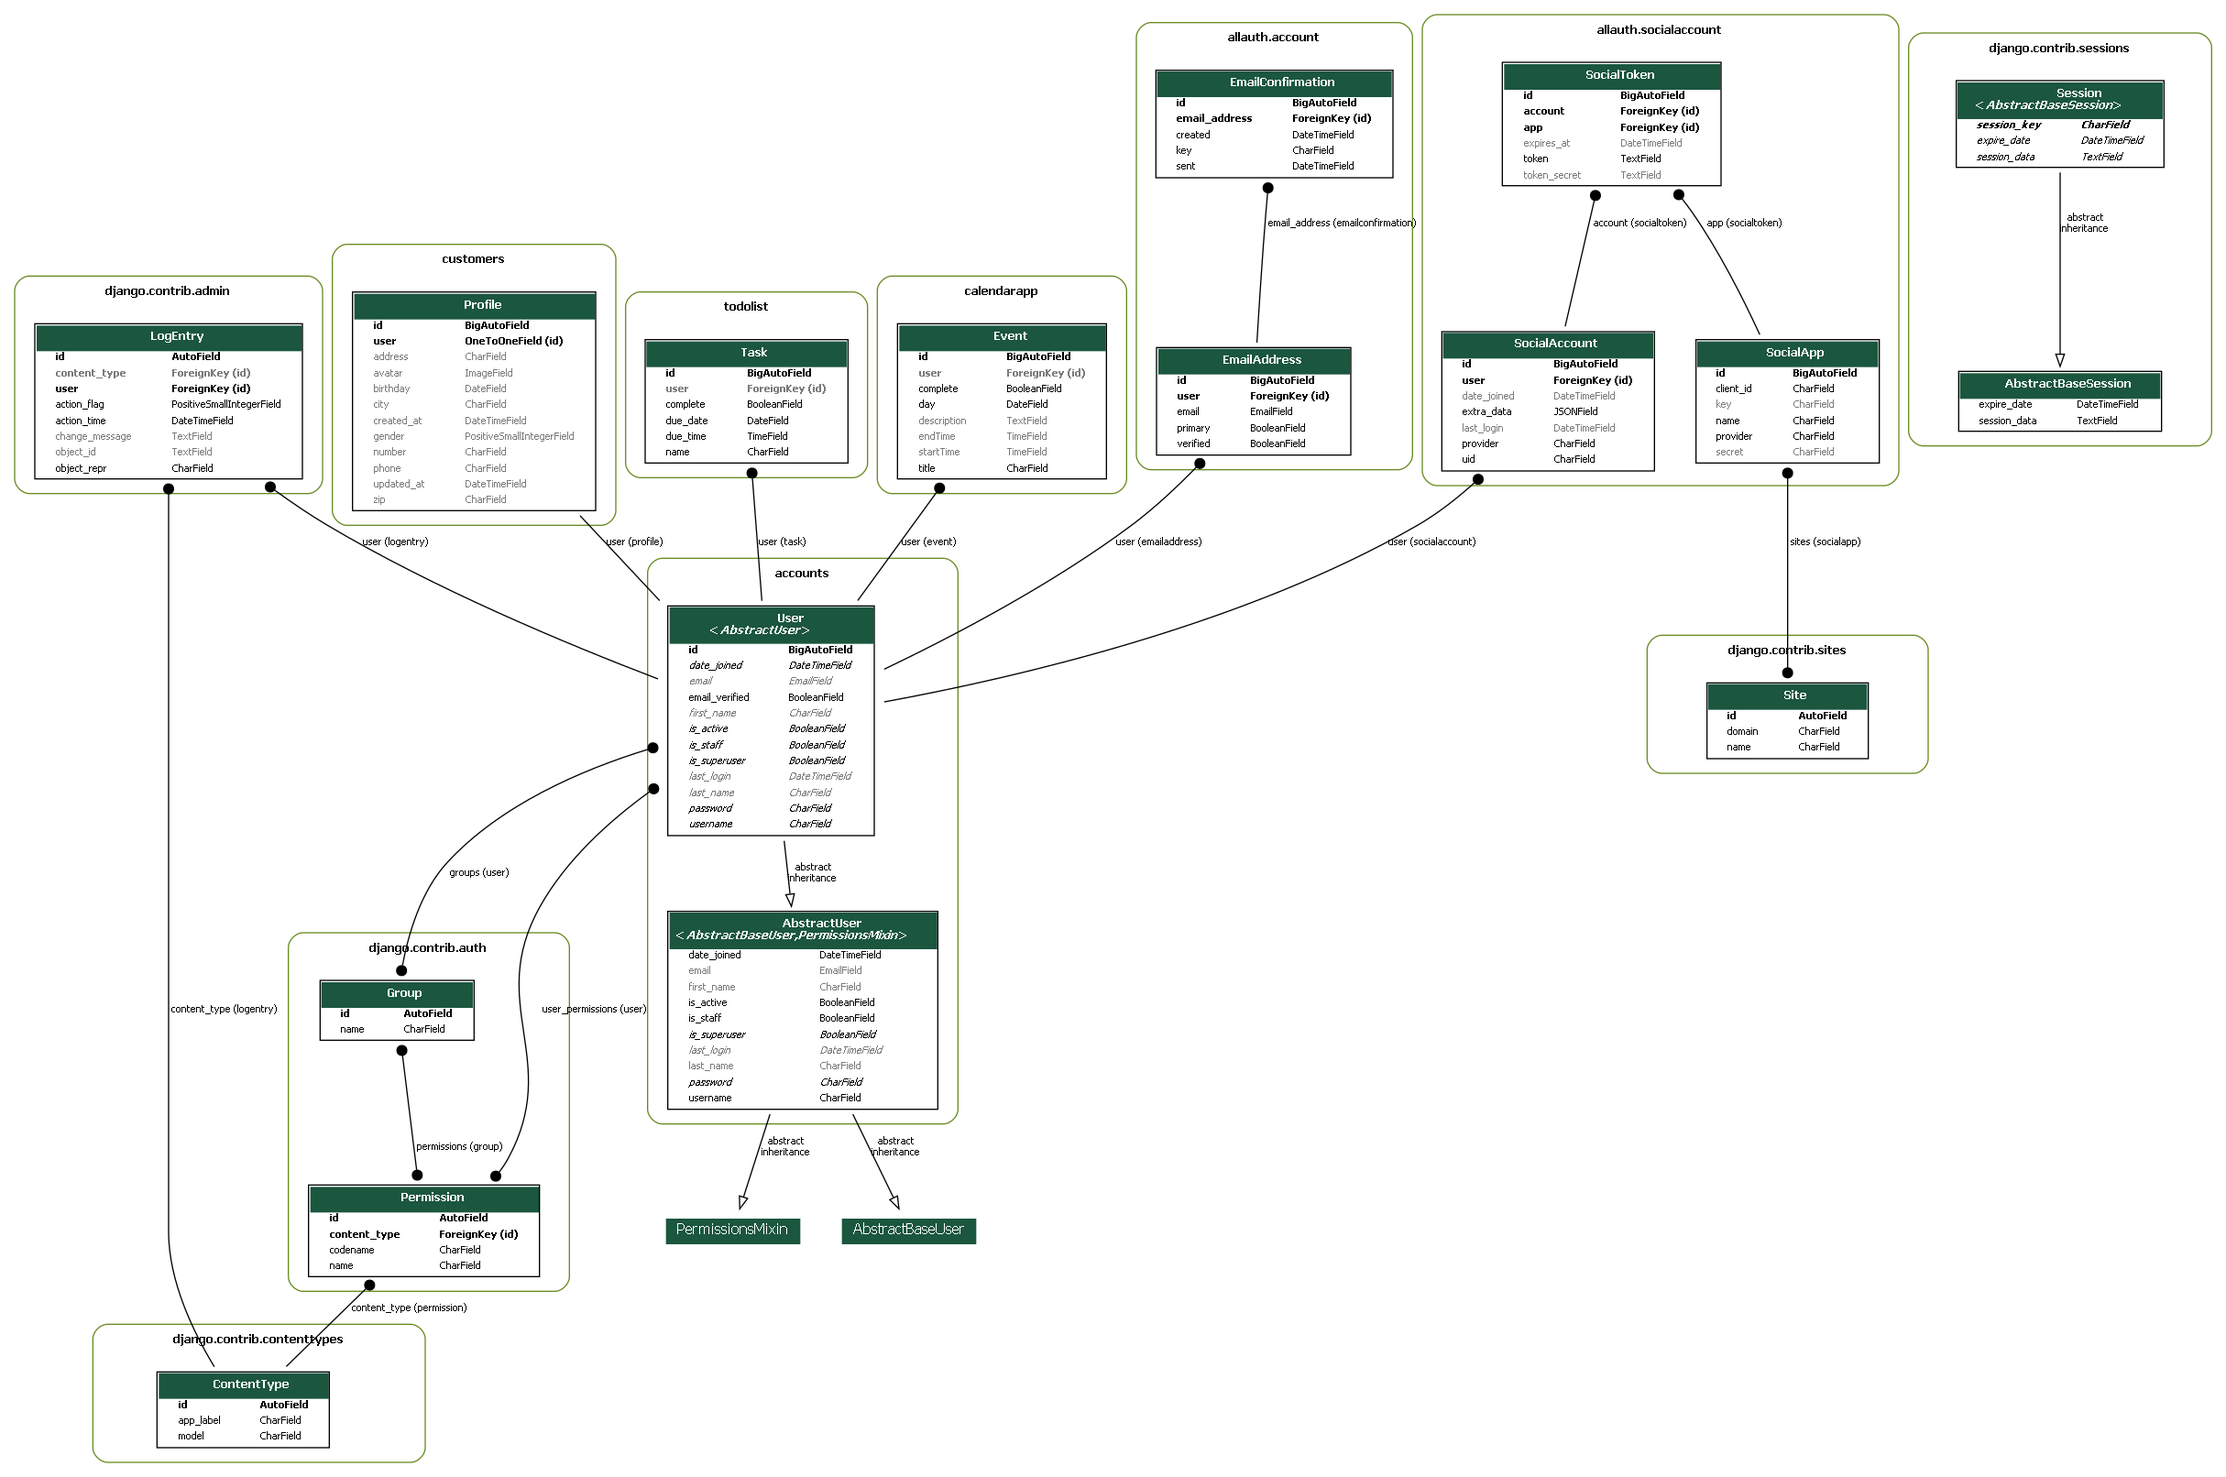
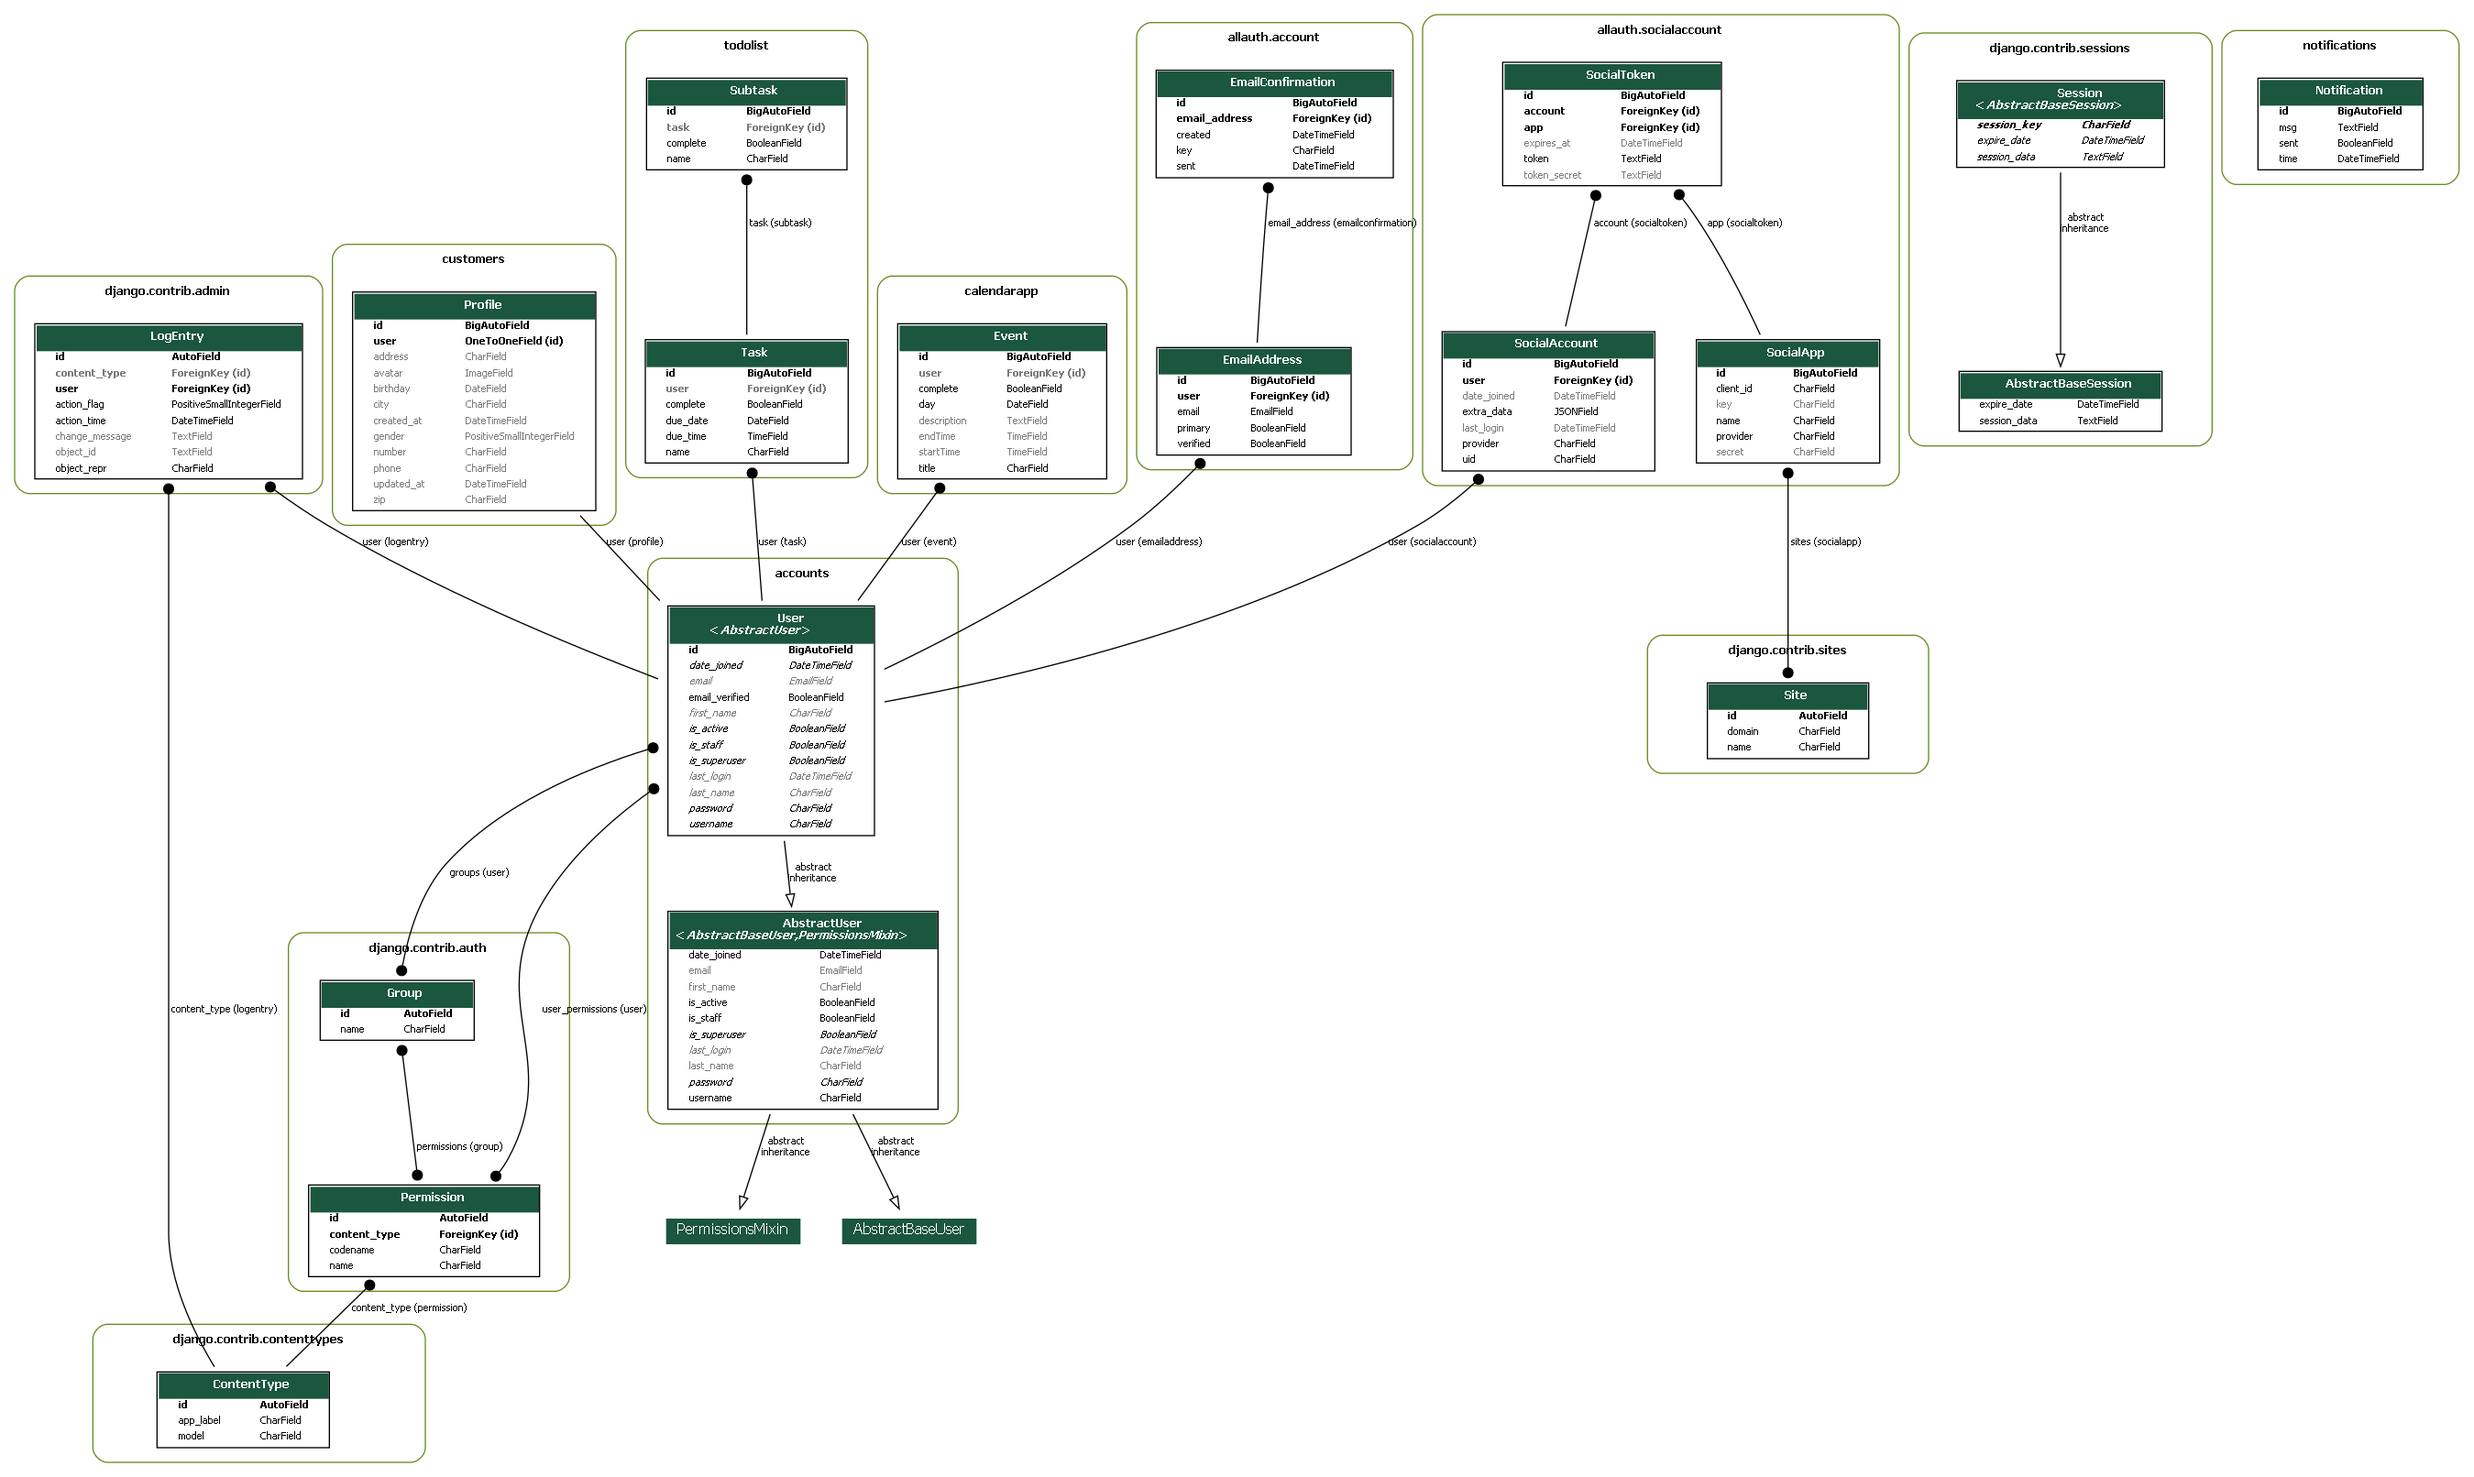
Subtask bug fix - Daily Schedule
Fixed a bug where subtask JS were not working. Added new class diagrams.

diff --git a/AppCode/dailyschedule/templates/dailyschedule/subtasks.html b/AppCode/dailyschedule/templates/dailyschedule/subtasks.html
@@ -1,72 +1,76 @@
 <div class="table-responsive p-0">
-    <table class="table align-items-center mb-0">
-      <tbody>
-        {% if subtasks|length %}
+  <table id="subtasks-list" class="table align-items-center mb-0">
+    <tbody id="subtasks-list-body">
+      {% if subtasks|length %}
         {% for subtask in subtasks %}
-        <tr>
-          <td style="text-align: right; width: 100px;">
-                {% if subtask.complete %}
-                     <input class="subtask-checkbox" type="checkbox" name="checkbox" data-id="{{subtask.id}}" checked>
-                     {% else %}
-                    <input class="subtask-checkbox" type="checkbox" name="checkbox" data-id="{{subtask.id}}">
-                    {% endif %}                       
-            </div>
-            </a>
-          </td>
-          <td>
+          <tr>
+            <td style="text-align: right; width: 100px;">
+              {% if subtask.complete %}
+                <input class="subtask-checkbox" type="checkbox" name="checkbox" data-id="{{subtask.id}}" checked>
+              {% else %}
+                <input class="subtask-checkbox" type="checkbox" name="checkbox" data-id="{{subtask.id}}">
+              {% endif %}                       
+            </td>
+            <td>
               <p id="task-due-date" class="text-xs font-weight-bold mb-0">{{subtask.name}}</p> 
-          </td>    
-          <td class="float: right;" id = "">
-            <i style="cursor:pointer;" class="delete-subtask fa fa-close text-secondary" data-id="{{subtask.id}}"></i>
-          </td>
-        </tr>
-      {% endfor %}
+            </td>    
+            <td class="float: right;" id = "">
+              <i style="cursor:pointer;" class="delete-subtask fa fa-close text-secondary" data-id="{{subtask.id}}" onclick=deleteRow(this)></i>
+            </td>
+          </tr>
+          <b id="no-subtasks" style='padding-left: 20px' hidden>No current subtasks!</b>
+        {% endfor %}
       {% else %}
-      <b style='padding-left: 20px'>No current subtasks!</b>
+        <b style='padding-left: 20px'>No current subtasks!</b>
       {% endif %}
-    </table>
-  </div>
-  {% block javascripts %}
+    </tbody>
+  </table>
+</div>
 
-  <script>
-    $(".subtask-checkbox").click(function(e) {
-      var subtaskId = $(this).attr('data-id');
-      var editSubtaskURL = window.location.origin + "/dailyschedule/subtask-edit/" + subtaskId + "/";
-    
-      $.ajaxSetup({
-        headers: { "X-CSRFToken": '{{csrf_token}}' }
-      });
+<script>
+  function deleteRow(row) {
+    document.getElementById("subtasks-list").deleteRow(row.parentNode.parentNode.rowIndex);
+    if(document.getElementById("subtasks-list").rows.length == 0)
+      document.getElementById("no-subtasks").removeAttribute("hidden");
+  }
 
-      $.ajax({
-        type: "POST",
-        url: editSubtaskURL,
-        success: function(data) {
-          console.log("Submission successful.");
-        },
-        error: function(data) {
-          console.log("An error occurred.");
-        },
-      });
+  $(".subtask-checkbox").click(function(e) {
+    var subtaskId = $(this).attr('data-id');
+    var editSubtaskURL = window.location.origin + "/dailyschedule/subtask-edit/" + subtaskId + "/";
+  
+    $.ajaxSetup({
+      headers: { "X-CSRFToken": '{{csrf_token}}' }
     });
 
-    $(".delete-subtask").click(function(e) {
-      var deleteId = $(this).attr('data-id');
-      var deleteSubtaskURL = window.location.origin + "/dailyschedule/subtask-delete/" + deleteId + "/";
-      console.log(deleteSubtaskURL);
-      $.ajax({
-        type: "POST",
-        url: deleteSubtaskURL,
-        beforeSend: function(xhr) {
-          xhr.setRequestHeader("X-CSRFToken", getCookie("csrftoken"));
-        },
-        success: function(data) {
-          console.log("Submission successful.");
-        },
-        error: function(data) {
-          console.log("An error occurred.");
-        },
-      });
+    $.ajax({
+      type: "POST",
+      url: editSubtaskURL,
+      success: function(data) {
+        console.log("Submission successful.");
+      },
+      error: function(data) {
+        console.log("An error occurred.");
+      },
     });
-  </script>
+  });
 
-{% endblock javascripts %}
+  $(".delete-subtask").click(function(e) {
+    var deleteId = $(this).attr('data-id');
+    var deleteSubtaskURL = window.location.origin + "/dailyschedule/subtask-delete/" + deleteId + "/";
+    console.log(deleteSubtaskURL);
+    $.ajax({
+      type: "POST",
+      url: deleteSubtaskURL,
+      beforeSend: function(xhr) {
+        xhr.setRequestHeader("X-CSRFToken", getCookie("csrftoken"));
+      },
+      success: function(data) {
+        console.log("Submission successful.");
+      },
+      error: function(data) {
+        console.log("An error occurred.");
+      },
+    });
+  });
+
+</script>

diff --git a/AppCode/dailyschedule/templates/dailyschedule/schedule.html b/AppCode/dailyschedule/templates/dailyschedule/schedule.html
@@ -26,7 +26,7 @@
           <h3>Schedule For Today</h6>
         </div>
         <div class="card-body px-0 pt-0 pb-2">
-          <div class="table-responsive p-0">
+          <div class="subtasks-table table-responsive p-0">
 
             <h5 style="text-align:left; margin-top:20px; margin-left:20px">Tasks</h5>
 
@@ -56,9 +56,11 @@
                           </div>
                         </td>
                         <td>
+                          <a class="table-row" data-id = {{task.id}} data-toggle="modal" href="#SubtaskViewModal">
                           <p class="text-xs font-weight-bold mb-0">{{task.due_date | date:"SHORT_DATE_FORMAT"}}</p> 
                         </td>
                         <td class="align-middle">
+                          <a class="table-row" data-id = {{task.id}} data-toggle="modal" href="#SubtaskViewModal">
                           <p class="text-xs font-weight-bold mb-0">{{task.due_time | time:"H:i"}}</p> 
                           <!--<a href="javascript:;" class="text-secondary font-weight-bold text-xs" data-toggle="tooltip" data-original-title="Edit user">
                             Edit-->
@@ -321,7 +323,7 @@
             
           </div>
           <div class="modal-footer">
-            <button type="button" class="close-button btn btn-secondary" data-dismiss="modal">Close</button>
+            <button type="button" class="subtask-close-button btn btn-secondary" data-dismiss="modal">Close</button>
             <button type="button" class="btn btn-primary" id="add-subtask-button">Add Subtask</button>
           </div>
         </div>
@@ -342,7 +344,7 @@
           <div class="subtask-create-modal-body">
           </div>
           <div class="modal-footer">
-            <button type="button" class="btn btn-secondary" id="subtask-close-button" data-dismiss="modal">Close</button>
+            <button type="button" class="btn btn-secondary" id="subtask-create-close-button" data-dismiss="modal">Close</button>
             <button type="button" class="btn btn-primary" id="subtask-form-submit">Submit</button>
           </div>
         </div>
